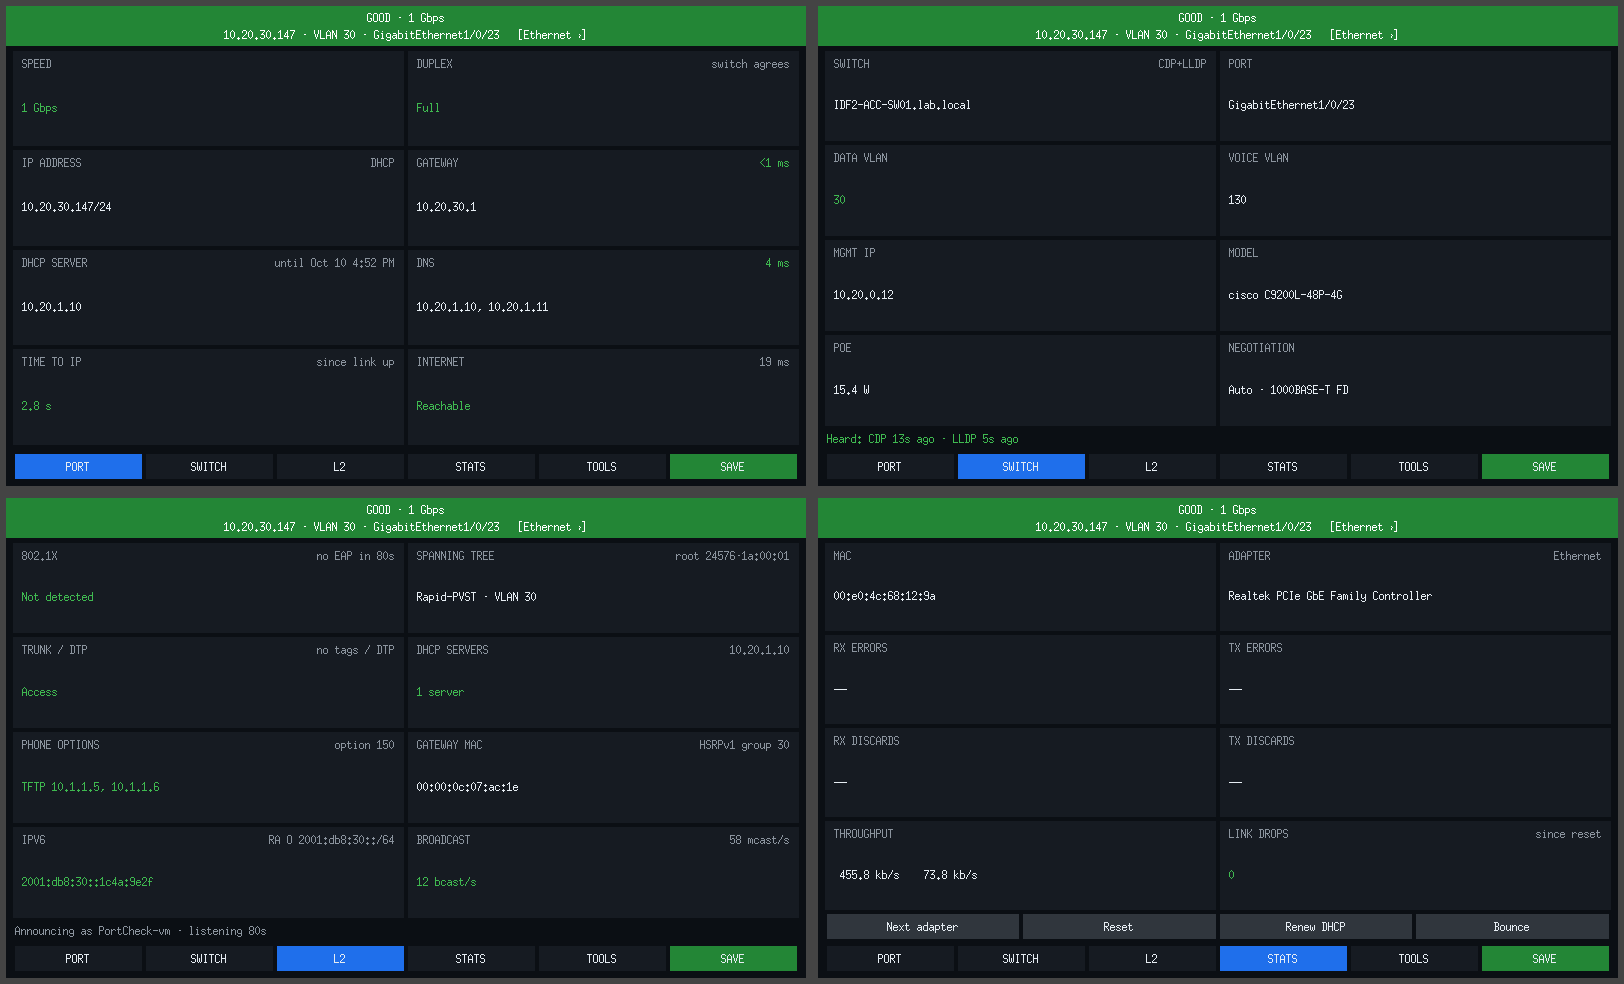
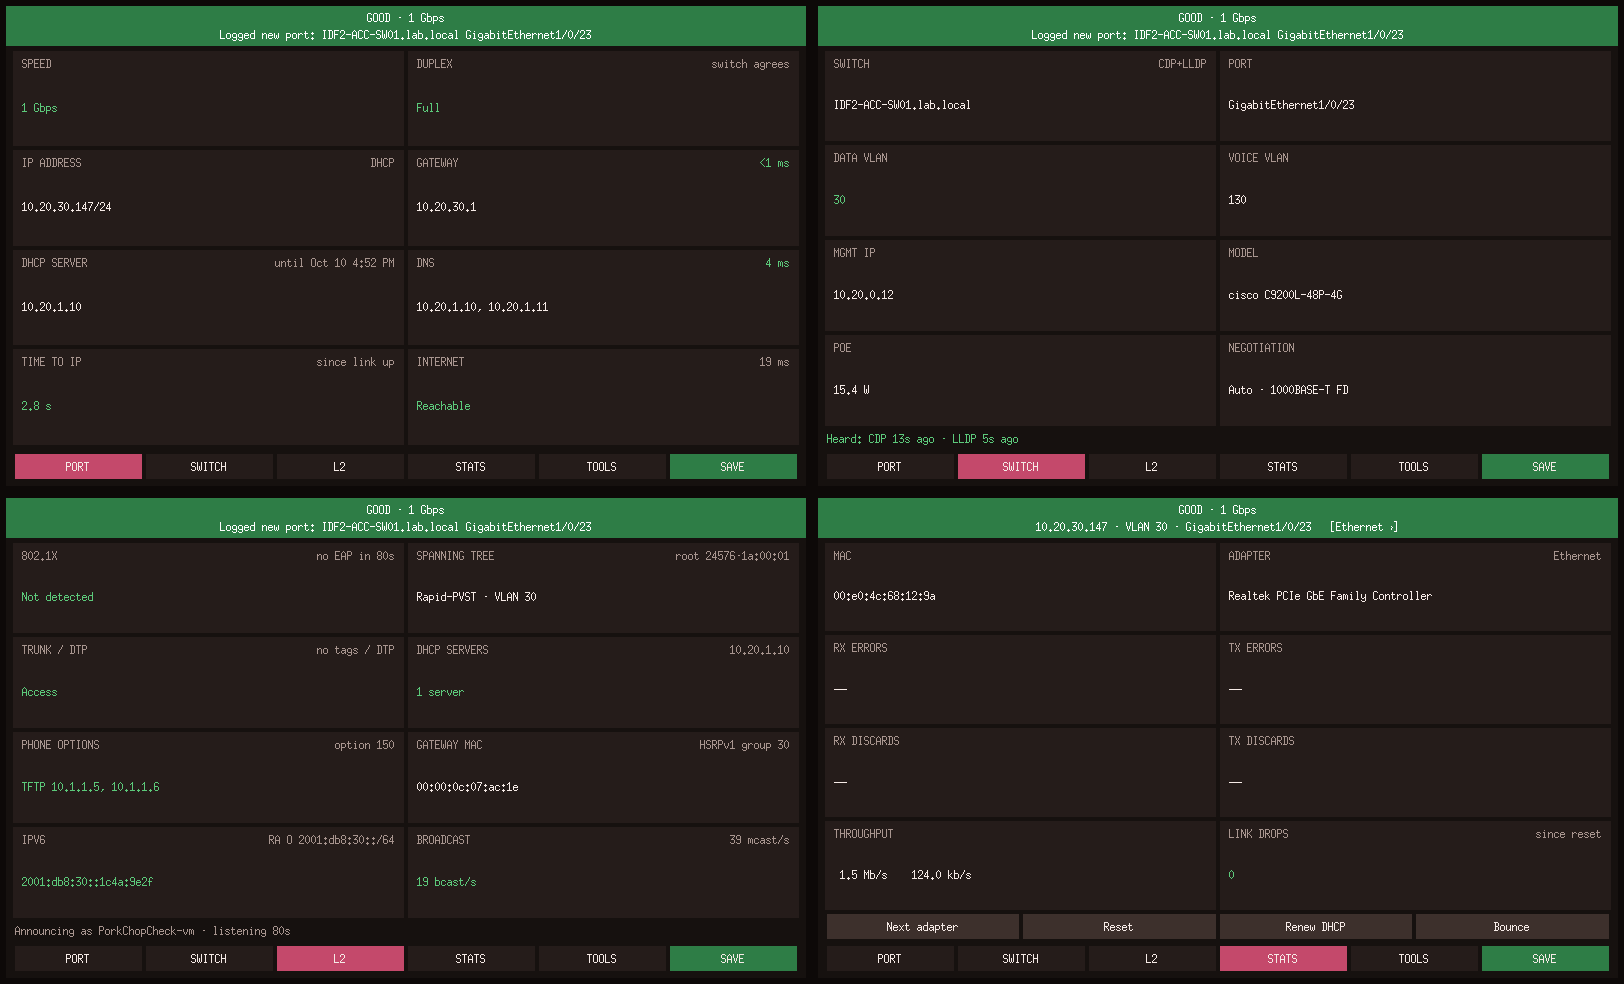
Rename to PorkChopCheck and add cast-iron + pork-pink theme
- portcheck.py -> porkchopcheck.py, PortCheck.bat -> PorkChopCheck.bat
- App title, CDP/LLDP announcements and default hostname now say PorkChopCheck
- Warm cast-iron dark palette with pork-pink accents; status colors unchanged
- Version tag in Settings; refreshed README screenshots

Claude-Session: https://claude.ai/code/session_01QAHntVcUquc6tcsGwVkKgk

Changed region(s): [[0.0, 0.0, 1.0, 1.0]]

diff --git a/porkchopcheck.py b/porkchopcheck.py
@@ -1,6 +1,6 @@
 #!/usr/bin/env python3
 """
-PortCheck - a big-text, touch-friendly switch-port tester for small Windows boxes.
+PorkChopCheck - a big-text, touch-friendly switch-port tester for small Windows boxes.
 
 Pages:  PORT    link, speed/duplex, IP, gateway, DHCP, DNS, time-to-IP, internet
         SWITCH  CDP/LLDP neighbor: switch, port, VLAN, voice VLAN, mgmt IP, model, PoE
@@ -11,9 +11,9 @@ Pages:  PORT    link, speed/duplex, IP, gateway, DHCP, DNS, time-to-IP, internet
                 mDNS browser, port finder, port log, re-run checks, settings
         SAVE    log this port (with an optional label) to data/ports.csv
 
-Run:   double-click portcheck.py   (it asks for admin once, then opens fullscreen)
-       python portcheck.py --windowed --size 800x480
-       python portcheck.py --demo      (fake data, to preview the screens)
+Run:   double-click porkchopcheck.py   (it asks for admin once, then opens fullscreen)
+       python porkchopcheck.py --windowed --size 800x480
+       python porkchopcheck.py --demo      (fake data, to preview the screens)
 Keys:  1-5 pages  S save  R renew  A next adapter  F11 fullscreen  Esc back  Q quit
 Needs: Python 3.10+, psutil, scapy, Npcap.  pc_net.py must sit next to this file.
 """
@@ -41,12 +41,13 @@ IS_WIN = N.IS_WIN
 DEMO = "--demo" in sys.argv
 WINDOWED = "--windowed" in sys.argv or (DEMO and not IS_WIN)
 SCRIPT_DIR = os.path.dirname(os.path.abspath(__file__))
+VERSION = "2.0"
 
 
 def pick_data_dir():
     sub = "data_demo" if DEMO else "data"
     for d in (os.path.join(SCRIPT_DIR, sub),
-              os.path.join(os.path.expanduser("~"), "Documents", "PortCheck", sub)):
+              os.path.join(os.path.expanduser("~"), "Documents", "PorkChopCheck", sub)):
         try:
             os.makedirs(d, exist_ok=True)
             probe = os.path.join(d, ".write_test")
@@ -62,19 +63,19 @@ def pick_data_dir():
 DATA_DIR = pick_data_dir()
 
 # ---------------------------------------------------------------- colors
-BG = "#0b0f14"
-PANEL = "#161b22"
-FG = "#e6edf3"
-DIM = "#8b949e"
-GREEN = "#238636"
-AMBER = "#9e6a03"
-RED = "#b62324"
-BLUE = "#1f6feb"
-GREY = "#30363d"
-OK = "#3fb950"
-WARN = "#e3b341"
-BAD = "#f85149"
-HDR = "#79c0ff"
+BG = "#16110f"        # cast-iron black
+PANEL = "#251c1a"     # seasoned skillet
+FG = "#f6ebe7"
+DIM = "#a8958f"
+GREEN = "#2e7d46"
+AMBER = "#a8620e"     # caramelized
+RED = "#b3261e"
+PINK = "#c4496b"      # pork pink (accent)
+GREY = "#3d302c"
+OK = "#5cc97a"
+WARN = "#f0b04c"
+BAD = "#ff6b5e"
+HDR = "#ff9fb2"       # light pink headers
 
 PENDING = "pending"
 
@@ -682,7 +683,7 @@ class Backend:
                 self.send(N.build_cdp(mac, host, sel, ip if ok_ip else None))
 
     def hostname(self):
-        return self.settings.get("hostname") or f"PortCheck-{socket.gethostname()}"
+        return self.settings.get("hostname") or f"PorkChopCheck-{socket.gethostname()}"
 
     def run_dhcp_check(self):
         st = self.st
@@ -1522,7 +1523,7 @@ class ToolView(tk.Frame):
             side="left", padx=ui.pad)
         self.act = []
         for text, cmd in reversed(actions):
-            b = ui.button(hdr, text, cmd, ui.sz["small"], bg=BLUE, padx=ui.pad)
+            b = ui.button(hdr, text, cmd, ui.sz["small"], bg=PINK, padx=ui.pad)
             b.pack(side="right", padx=(ui.pad // 2, 0))
             self.act.insert(0, b)
         self.summary = tk.Label(self, text="", bg=BG, fg=FG, anchor="w",
@@ -1538,7 +1539,7 @@ class ToolView(tk.Frame):
         self.list.pack(fill="both", expand=True, pady=(ui.pad // 2, 0))
         self._sum = None
 
-    def set_action(self, i, text, bg=BLUE):
+    def set_action(self, i, text, bg=PINK):
         b = self.act[i]
         if b.cget("text") != text or b.cget("bg") != bg:
             b.config(text=text, bg=bg)
@@ -1666,7 +1667,7 @@ class UI:
         # banner (tap = next adapter)
         self.banner = tk.Frame(root, bg=GREY)
         self.banner.pack(side="top", fill="x")
-        self.b_big = tk.Label(self.banner, text="STARTING", bg=GREY, fg="white",
+        self.b_big = tk.Label(self.banner, text="HEATING THE SKILLET…", bg=GREY, fg="white",
                               font=self.font(self.sz["big"], "bold"))
         self.b_big.pack(fill="x", pady=(self.pad // 2, 0))
         self.b_sub = tk.Label(self.banner, text="", bg=GREY, fg="white", font=self.font(self.sz["sub"]))
@@ -1831,6 +1832,8 @@ class UI:
             b.grid(row=r, column=0, sticky="nsew", pady=self.pad // 4)
             self.set_btns[key] = b
         lst.columnconfigure(0, weight=1)
+        tk.Label(page, text=f"PorkChopCheck v{VERSION}  ·  github.com/turkey415/porkchopcheck  ·  oink",
+                 bg=BG, fg=DIM, font=self.font(self.sz["rowsm"])).pack(fill="x", pady=(self.pad // 2, 0))
 
     # ---------------------------------------------------------- navigation
     def show(self, name):
@@ -1842,7 +1845,7 @@ class UI:
         self.cur = name
         active = name if name in self.MAIN else "TOOLS"
         for n, b in self.nav_btns.items():
-            b.config(bg=BLUE if n == active else (GREEN if n == "SAVE" else PANEL))
+            b.config(bg=PINK if n == active else (GREEN if n == "SAVE" else PANEL))
 
     def show_tools(self):
         self.show("TOOLS")
@@ -1975,7 +1978,7 @@ class UI:
         if not s["sel"]:
             color, big, sub = GREY, "NO ETHERNET ADAPTER", "Plug in a USB NIC or check drivers"
         elif s["blink"]["running"]:
-            color, big, sub = BLUE, "PORT FINDER ON", "Watch the switch for the blinking LED"
+            color, big, sub = PINK, "PORT FINDER ON", "Watch the switch for the blinking LED"
         elif up is None:
             color, big, sub = GREY, "CHECKING…", s["sel"]
         elif not up:
@@ -1993,7 +1996,7 @@ class UI:
                 color, big = AMBER, "WAITING FOR IP"
                 sub = f"Link {N.fmt_speed(s['speed_mbps'])}" + (f" · {waited:.0f}s" if waited else "")
         elif s["gw_ms"] == PENDING and gw:
-            color, big, sub = BLUE, "TESTING…", f"{ip} · pinging gateway"
+            color, big, sub = PINK, "TESTING…", f"{ip} · pinging gateway"
         elif gw and s["gw_ms"] is None:
             color, big, sub = AMBER, "GATEWAY NOT REPLYING", f"{ip} · wrong VLAN?"
         elif len(dhcp_servers(s)) > 1:
@@ -2146,7 +2149,7 @@ class UI:
                                            if g("iperf_server") else "(tap to set)"),
             "oui": f"Update MAC vendor list  ({n_oui:,} vendors loaded)" if n_oui else "Download MAC vendor list",
             "folder": f"Open data folder  ({DATA_DIR})",
-            "exit": "Exit PortCheck",
+            "exit": "Exit PorkChopCheck",
         }
         for k, t in texts.items():
             b = self.set_btns[k]
@@ -2166,7 +2169,7 @@ class UI:
     # ---------------------------------------------------------- tool renders
     def render_ping(self, s, v, now):
         p = s["ping"]
-        v.set_action(0, "Stop" if p["running"] else "Start", RED if p["running"] else BLUE)
+        v.set_action(0, "Stop" if p["running"] else "Start", RED if p["running"] else PINK)
         tgt = p["target"] or "(no address yet)"
         if p["sent"]:
             loss = 100 * (p["sent"] - p["recv"]) / p["sent"]
@@ -2203,7 +2206,7 @@ class UI:
 
     def render_trace(self, s, v, now):
         t = s["trace"]
-        v.set_action(0, "Stop" if t["running"] else "Run", RED if t["running"] else BLUE)
+        v.set_action(0, "Stop" if t["running"] else "Run", RED if t["running"] else PINK)
         state = "running…" if t["running"] else ("done" if t["hops"] else "tap Run")
         v.set_summary(f"{t['label']}: {t['target'] or '—'}", FG,
                       f"{state} · up to 20 hops, sourced from the Ethernet port")
@@ -2247,7 +2250,7 @@ class UI:
 
     def render_arpscan(self, s, v, now):
         a = s["arp_scan"]
-        v.set_action(0, "Stop" if a["running"] else "Scan", RED if a["running"] else BLUE)
+        v.set_action(0, "Stop" if a["running"] else "Scan", RED if a["running"] else PINK)
         found = a["found"]
         dups = {ip: m for ip, m in found.items() if len(m) > 1}
         if a["net"]:
@@ -2278,7 +2281,7 @@ class UI:
         m = self.be.mdns.snapshot()
         n_inst = len(m["inst"])
         n_dev = len(m["responders"])
-        v.set_action(0, "Scanning" if m["running"] else "Scan", GREY if m["running"] else BLUE)
+        v.set_action(0, "Scanning" if m["running"] else "Scan", GREY if m["running"] else PINK)
         if m["error"]:
             v.set_summary("mDNS error", BAD, m["error"])
         elif m["running"] and not n_inst:
@@ -2295,7 +2298,7 @@ class UI:
 
     def render_blink(self, s, v, now):
         b = s["blink"]
-        v.set_action(0, "Stop" if b["running"] else "Start", RED if b["running"] else BLUE)
+        v.set_action(0, "Stop" if b["running"] else "Start", RED if b["running"] else PINK)
         if b["running"]:
             v.set_summary(f"Blinking… {b['cycles']} cycles", WARN,
                           "The port LED goes dark ~1.5 s every 4.5 s. Tap Stop when you find it.")
@@ -2303,7 +2306,7 @@ class UI:
             v.set_summary("Find this port on the switch", FG, "Tap Start, then watch the switch")
         v.list.set_rows([
             ("How it works", HDR, "hdr"),
-            ("PortCheck disables and re-enables this Ethernet adapter on a loop, so the switch "
+            ("PorkChopCheck disables and re-enables this Ethernet adapter on a loop, so the switch "
              "port's link LED flashes off and on — like a toner, but for switch ports.", FG, "row"),
             ("Tip", HDR, "hdr"),
             ("Also try 'show cdp neighbors' or 'show lldp neighbors' on the switch: this box "
@@ -2325,7 +2328,7 @@ class UI:
                     r.get("poe", ""), f"802.1X {r['dot1x']}" if r.get("dot1x") not in ("", "—", "Not detected") else ""]
             out.append(("  ·  ".join(b for b in bits if b), FG, "row"))
             out.append((f"last {r.get('last_seen', '')}  ·  first {r.get('first_seen', '')}", DIM, "dim"))
-        v.list.set_rows(out, "Nothing yet. Ports are logged automatically once CDP/LLDP names "
+        v.list.set_rows(out, "Nothing on the plate yet. Ports are logged automatically once CDP/LLDP names "
                              "the switch port, or tap SAVE to log one with a label.")
 
 
@@ -2370,7 +2373,7 @@ def main():
         print("psutil is missing:  py -m pip install psutil scapy")
         sys.exit(1)
     root = tk.Tk()
-    root.title("PortCheck")
+    root.title("PorkChopCheck")
     size = parse_size()
     if WINDOWED:
         size = size or (800, 480)

diff --git a/pc_net.py b/pc_net.py
@@ -1,5 +1,5 @@
 """
-pc_net - the networking engine behind PortCheck.
+pc_net - the networking engine behind PorkChopCheck.
 
 Packet decoders / builders (CDP, LLDP, DTP, STP, EAPOL, ARP, DHCP, mDNS, IPv6 RA),
 ICMP ping + traceroute, iperf3 / HTTP speed tests, MAC vendor lookup, port log, settings.
@@ -288,8 +288,8 @@ def parse_cdp(p):
     return d
 
 
-def build_cdp(mac, device_id, port_id, ip=None, platform_name="PortCheck",
-              software="PortCheck switch-port tester"):
+def build_cdp(mac, device_id, port_id, ip=None, platform_name="PorkChopCheck",
+              software="PorkChopCheck switch-port tester"):
     def tlv(t, v):
         return struct.pack("!HH", t, len(v) + 4) + v
 
@@ -369,7 +369,7 @@ def parse_lldp(p):
     return d
 
 
-def build_lldp(mac, port_name, sysname, sysdesc="PortCheck switch-port tester", ip=None):
+def build_lldp(mac, port_name, sysname, sysdesc="PorkChopCheck switch-port tester", ip=None):
     def tl(t, v):
         return struct.pack("!H", (t << 9) | len(v)) + v
 
@@ -881,7 +881,7 @@ def _win_echo(dst, src, ttl, timeout_ms, size):
         _ipl = lib
     h = _ipl.IcmpCreateFile()
     try:
-        data = ctypes.create_string_buffer((b"PortCheck-ping-" * 8)[:size], size)
+        data = ctypes.create_string_buffer((b"PorkChopCheck-ping-" * 8)[:size], size)
         reply = ctypes.create_string_buffer(256 + size)
         opt = _IPOPT(ttl, 0, 0, 0, None)
         t = time.perf_counter()
@@ -1100,7 +1100,7 @@ class Oui:
         return " · ".join(bits)
 
     def download(self):
-        req = urllib.request.Request(self.URL, headers={"User-Agent": "PortCheck"})
+        req = urllib.request.Request(self.URL, headers={"User-Agent": "PorkChopCheck"})
         data = urllib.request.urlopen(req, timeout=30).read()
         tmp = self.path + ".tmp"
         with open(tmp, "wb") as f:

diff --git a/tests/test_pc_net.py b/tests/test_pc_net.py
@@ -9,15 +9,15 @@ def check(name, cond, extra=""):
 
 MAC = "00:e0:4c:68:12:9a"
 # CDP round trip (our announce frame decodes)
-f = N.build_cdp(MAC, "PortCheck-BOX", "Ethernet", "10.20.30.147")
+f = N.build_cdp(MAC, "PorkChopCheck-BOX", "Ethernet", "10.20.30.147")
 ev = N.classify(f); k, d = ev[0]
-check("cdp build->parse", k == "CDP" and d["name"] == "PortCheck-BOX" and d["mgmt_ip"] == "10.20.30.147", d)
+check("cdp build->parse", k == "CDP" and d["name"] == "PorkChopCheck-BOX" and d["mgmt_ip"] == "10.20.30.147", d)
 cdp = f[22:22 + struct.unpack("!H", f[12:14])[0] - 8]
 check("cdp checksum valid", N.checksum(cdp) == 0)
 # LLDP round trip
-f = N.build_lldp(MAC, "Ethernet", "PortCheck-BOX", ip="10.20.30.147")
+f = N.build_lldp(MAC, "Ethernet", "PorkChopCheck-BOX", ip="10.20.30.147")
 k, d = N.classify(f)[0]
-check("lldp build->parse", k == "LLDP" and d["name"] == "PortCheck-BOX" and d["port"] == "Ethernet" and d["mgmt_ip"] == "10.20.30.147", d)
+check("lldp build->parse", k == "LLDP" and d["name"] == "PorkChopCheck-BOX" and d["port"] == "Ethernet" and d["mgmt_ip"] == "10.20.30.147", d)
 # EAPOL start + a switch EAP-Request/Identity
 k, d = N.classify(N.build_eapol_start(MAC))[0]
 check("eapol start", k == "EAPOL" and d["code"] == "Start")

diff --git a/README.md b/README.md
@@ -2,16 +2,16 @@
 
 A great tool to check your network and ports on your network. CDP, LLDP, and so much more.
 
-*Working title. The app still calls itself PortCheck on screen.*
+Cooked up in a cast-iron dark theme with pork-pink accents. Status colors stay plain green, amber, and red, so a bad port never looks cute.
 
 
 Full-screen, big-text, touch-friendly switch-port tester for a small Windows 11 box.
 
-**Files:** `portcheck.py` (the app) and `pc_net.py` (the network engine) must sit in the same folder, for example `C:\PortCheck`.
+**Files:** `porkchopcheck.py` (the app) and `pc_net.py` (the network engine) must sit in the same folder, for example `C:\PorkChopCheck`.
 
 ## Starting it
 
-Double-click `portcheck.py` or `PortCheck.bat`. It asks for admin once through a UAC prompt, then opens fullscreen. Admin is needed for DHCP renew, link bounce, and the port finder.
+Double-click `porkchopcheck.py` or `PorkChopCheck.bat`. It asks for admin once through a UAC prompt, then opens fullscreen. Admin is needed for DHCP renew, link bounce, and the port finder.
 
 ## Pages
 
@@ -30,21 +30,21 @@ The banner turns red or amber for: no link, duplicate IP, 802.1X with no access,
 
 ## Port log
 
-Every time CDP/LLDP names the switch and port, PortCheck logs it automatically to `data\ports.csv`. That file keeps one row per switch+port and is updated to the latest result. Tap **SAVE** to add a label like "Room 204 jack B". Every save also goes to `data\history.csv`. Both open in Excel.
+Every time CDP/LLDP names the switch and port, PorkChopCheck logs it automatically to `data\ports.csv`. That file keeps one row per switch+port and is updated to the latest result. Tap **SAVE** to add a label like "Room 204 jack B". Every save also goes to `data\history.csv`. Both open in Excel.
 
 ## Announcing itself
 
-By default, PortCheck sends LLDP and CDP every 30 s, so `show cdp neighbors` or `show lldp neighbors` on the switch shows `PortCheck-<pcname>` on the right port. You can turn this off or rename it in Settings.
+By default, PorkChopCheck sends LLDP and CDP every 30 s, so `show cdp neighbors` or `show lldp neighbors` on the switch shows `PorkChopCheck-<pcname>` on the right port. You can turn this off or rename it in Settings.
 
 ## One-time setup
 
 1. Install Python 3.12 or newer.
 2. Install Npcap from npcap.org, keeping the defaults.
-3. In a terminal in `C:\PortCheck`, run `py -m pip install -r requirements.txt`.
-4. **Optional, for LAN speed tests:** download iperf3 for Windows and put `iperf3.exe` in `C:\PortCheck`. On another PC or server, run `iperf3 -s`. Then set that machine's address under Tools › Settings.
+3. In a terminal in `C:\PorkChopCheck`, run `py -m pip install -r requirements.txt`.
+4. **Optional, for LAN speed tests:** download iperf3 for Windows and put `iperf3.exe` in `C:\PorkChopCheck`. On another PC or server, run `iperf3 -s`. Then set that machine's address under Tools › Settings.
 5. **Optional, for MAC vendor names:** they download by themselves the first time the box has internet. You can also use Settings › Download MAC vendor list.
 
-To preview every screen with fake data, run `py portcheck.py --demo`. Demo mode uses its own `data_demo` folder.
+To preview every screen with fake data, run `py porkchopcheck.py --demo`. Demo mode uses its own `data_demo` folder.
 
 ## Notes
 
@@ -57,7 +57,7 @@ To preview every screen with fake data, run `py portcheck.py --demo`. Demo mode 
 
 ## Screenshots
 
-Demo-mode renders (`py portcheck.py --demo`). Fonts on a real Windows box are larger and smoother.
+Demo-mode renders (`py porkchopcheck.py --demo`). Fonts on a real Windows box are larger and smoother.
 
 ![Main pages](docs/screenshots/main-pages.png)
 ![Tools](docs/screenshots/tools.png)
@@ -71,7 +71,7 @@ Demo-mode renders (`py portcheck.py --demo`). Fonts on a real Windows box are la
 
 Pull requests are welcome! Good places to start:
 
-- **Linux port.** The packet engine (`pc_net.py`) is already cross-platform. The Windows-only pieces are the PowerShell queries, `ipconfig` renew, and `netsh` port finder in `portcheck.py`.
+- **Linux port.** The packet engine (`pc_net.py`) is already cross-platform. The Windows-only pieces are the PowerShell queries, `ipconfig` renew, and `netsh` port finder in `porkchopcheck.py`.
 - **More decoders.** Add them to `pc_net.classify()`, with a round-trip check in `tests/test_pc_net.py`.
 - **Bug reports from real switches.** A pcap of the frame that confused it is gold.
 
